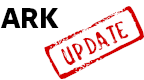
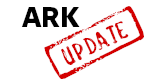
update binaries

Changed region(s): [[0.0, 0.075, 0.5556, 0.35]]

diff --git a/Updater/updater.c b/Updater/updater.c
@@ -357,6 +357,9 @@ void cleanupFilesPSP(){
         setInfoMsg(INFO_MSG, cleanup_files_psp[i]);
         sceIoRemove(path);
     }
+    sceIoRemove("flash0:/kd/ark_idsreg.prx");
+    sceIoRemove("flash0:/vsh/module/ark_usbdev.prx");
+    sceIoRemove("flash0:/vsh/module/ark_recovery.prx");
 }
 
 void cleanupFiles(){